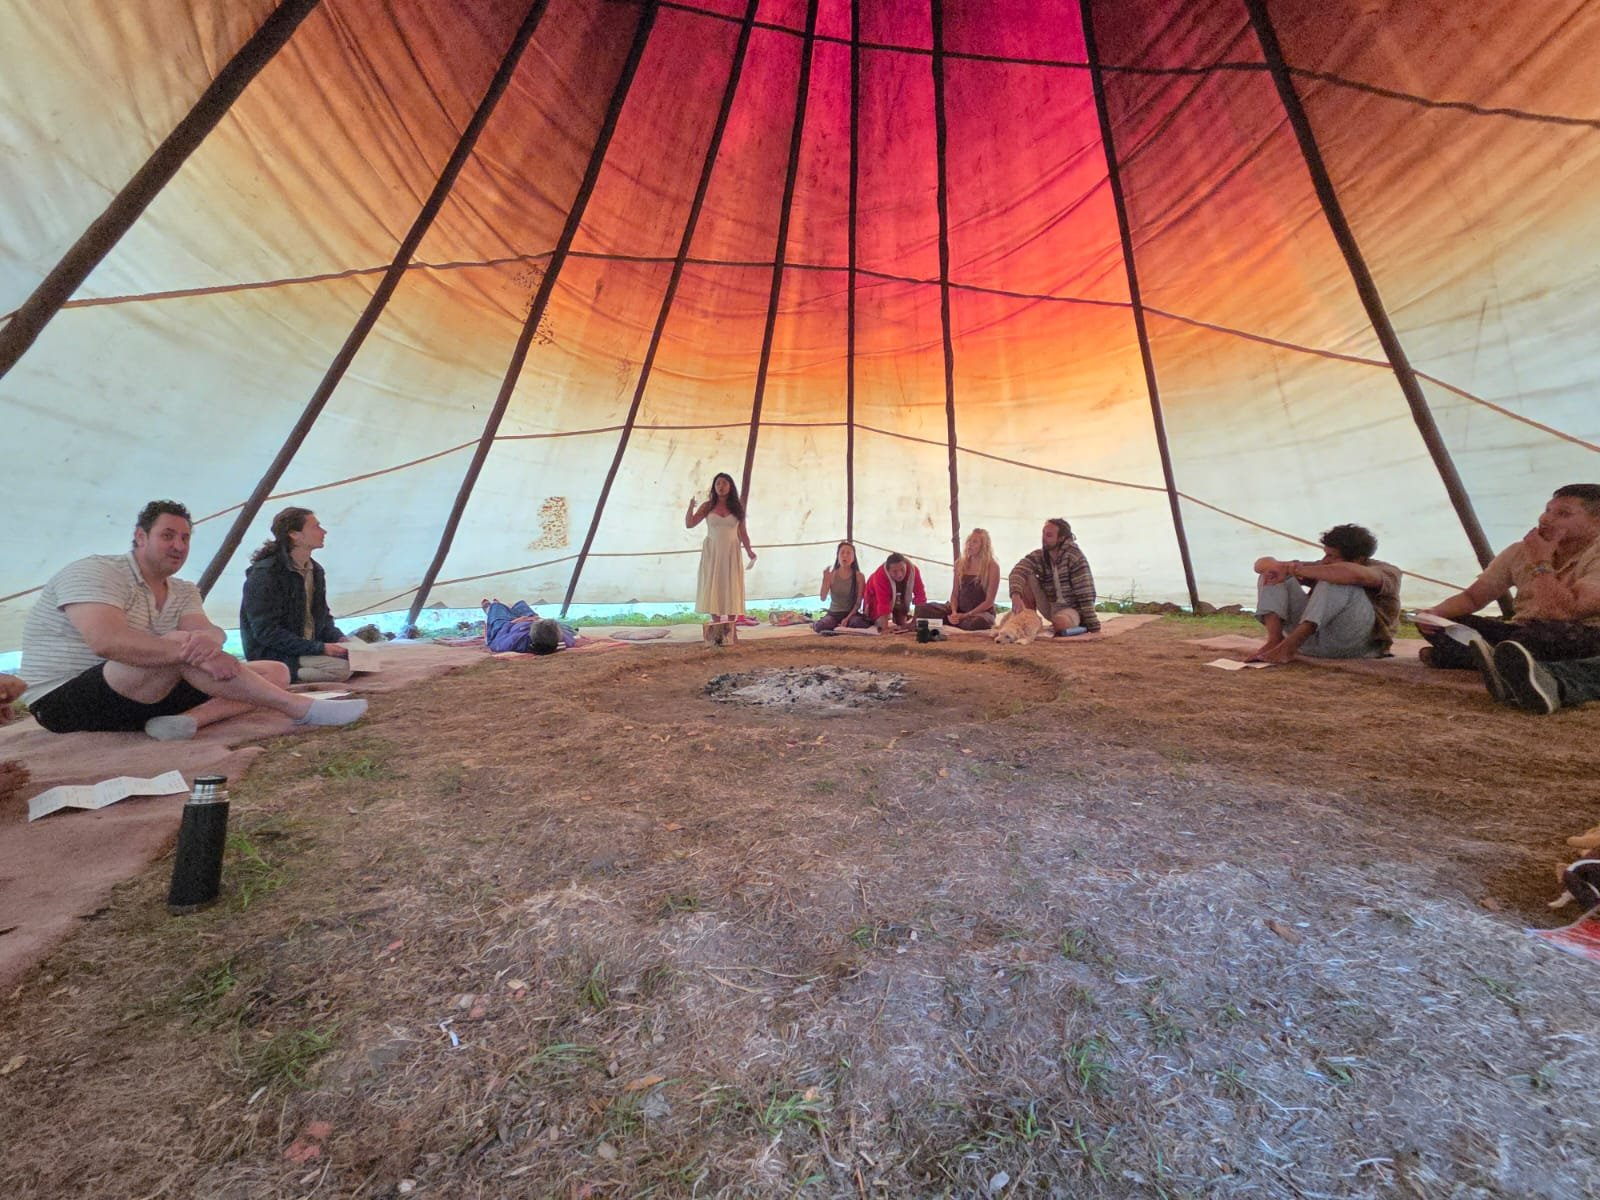
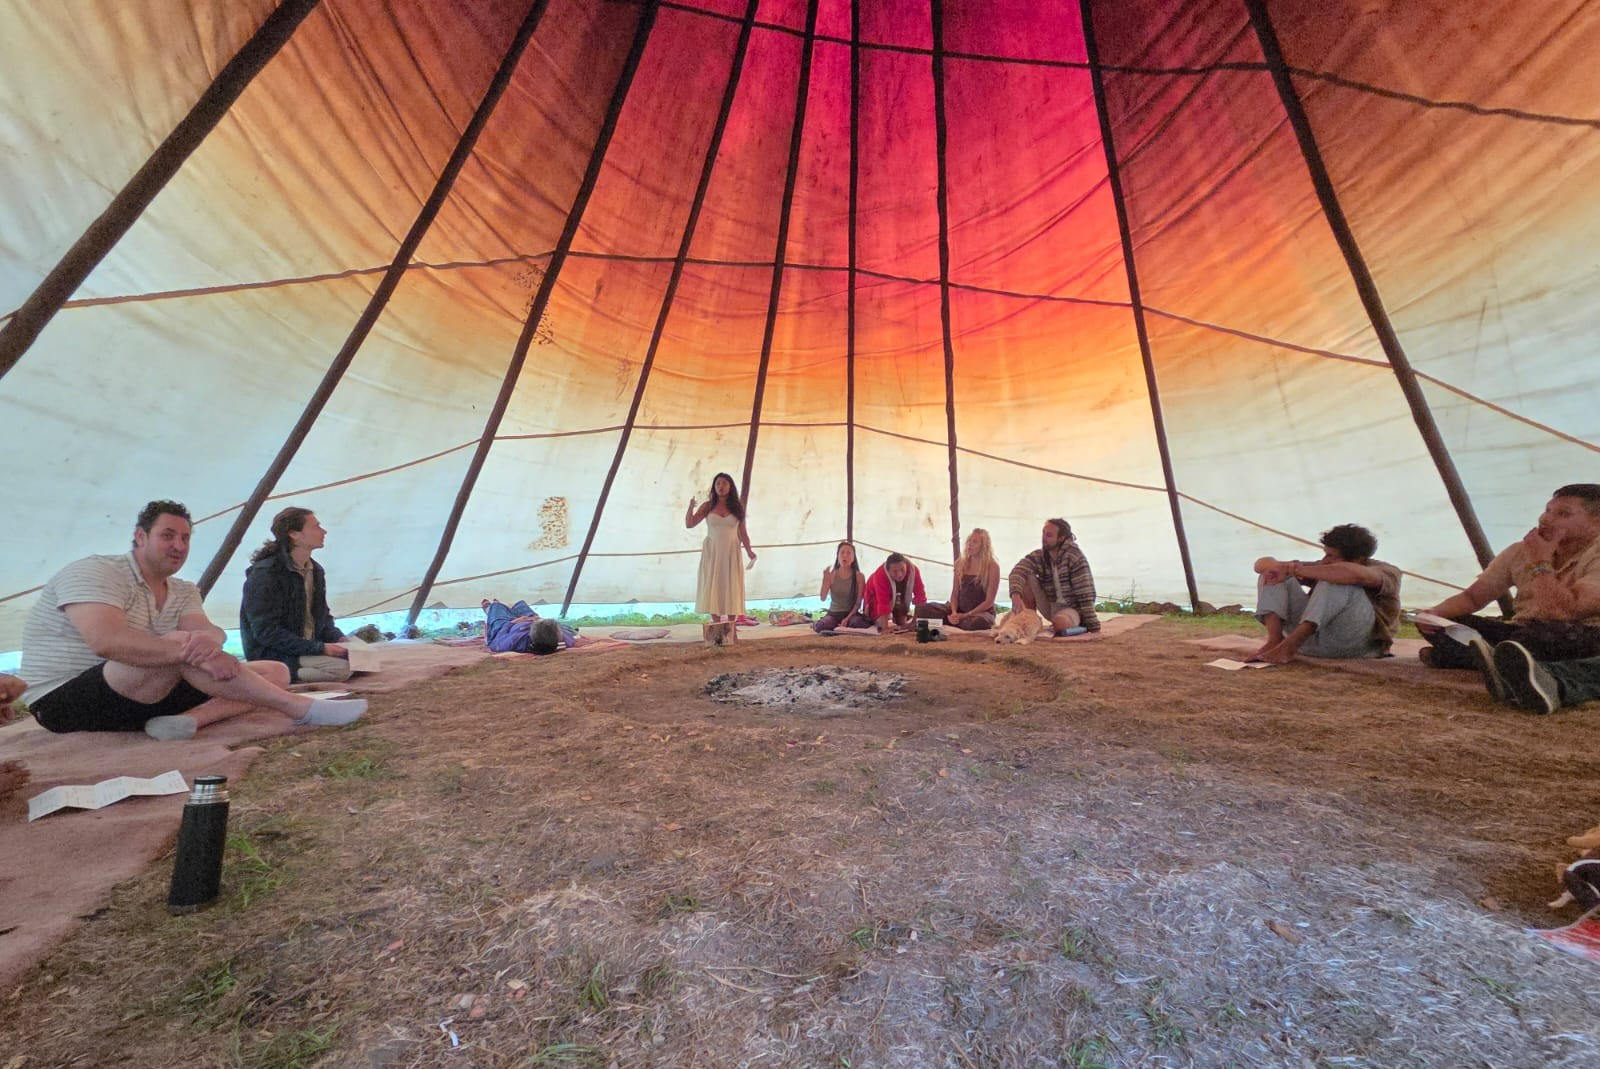
Add files via upload

diff --git a/index.html b/index.html
@@ -9,6 +9,16 @@
   <link rel="preconnect" href="https://fonts.gstatic.com" crossorigin>
   <link href="https://fonts.googleapis.com/css2?family=Lora:ital,wght@0,600;0,700;1,400&family=Nunito:wght@400;600;700&display=swap" rel="stylesheet">
   <link rel="stylesheet" href="style.css">
+  <style>
+    /* HERO PHOTO: shown from the top; lighter dark layer so the photo's colours show */
+    .hero {
+      background:
+        linear-gradient(rgba(0,0,0,.5) 0%, rgba(0,0,0,.1) 22%, rgba(0,0,0,.15) 60%, rgba(0,0,0,.35) 100%),
+        var(--hero-image) center top / cover no-repeat,
+        linear-gradient(160deg, #e8732a 0%, #8a4a2a 45%, #1c1612 100%);
+    }
+    .hero-tagline { max-width: 1000px; text-wrap: balance; line-height: 1.5; }
+  </style>
 </head>
 <body>
 
@@ -77,7 +87,7 @@
       <p>
         Why harmony singing?<br>
         Harmony singing has a unique way of bringing people together.<br>
-        When individual voices become one, something profound happens. The music carries a new energy, and the people singing it experience a shared resonance that reaches beyond the song itself.<br>
+        When individual voices become one, something changes—not just in the music, but in the people singing it.<br>
         That shared joy and collective uplift are at the heart of Songles.
       </p>
     </div>
